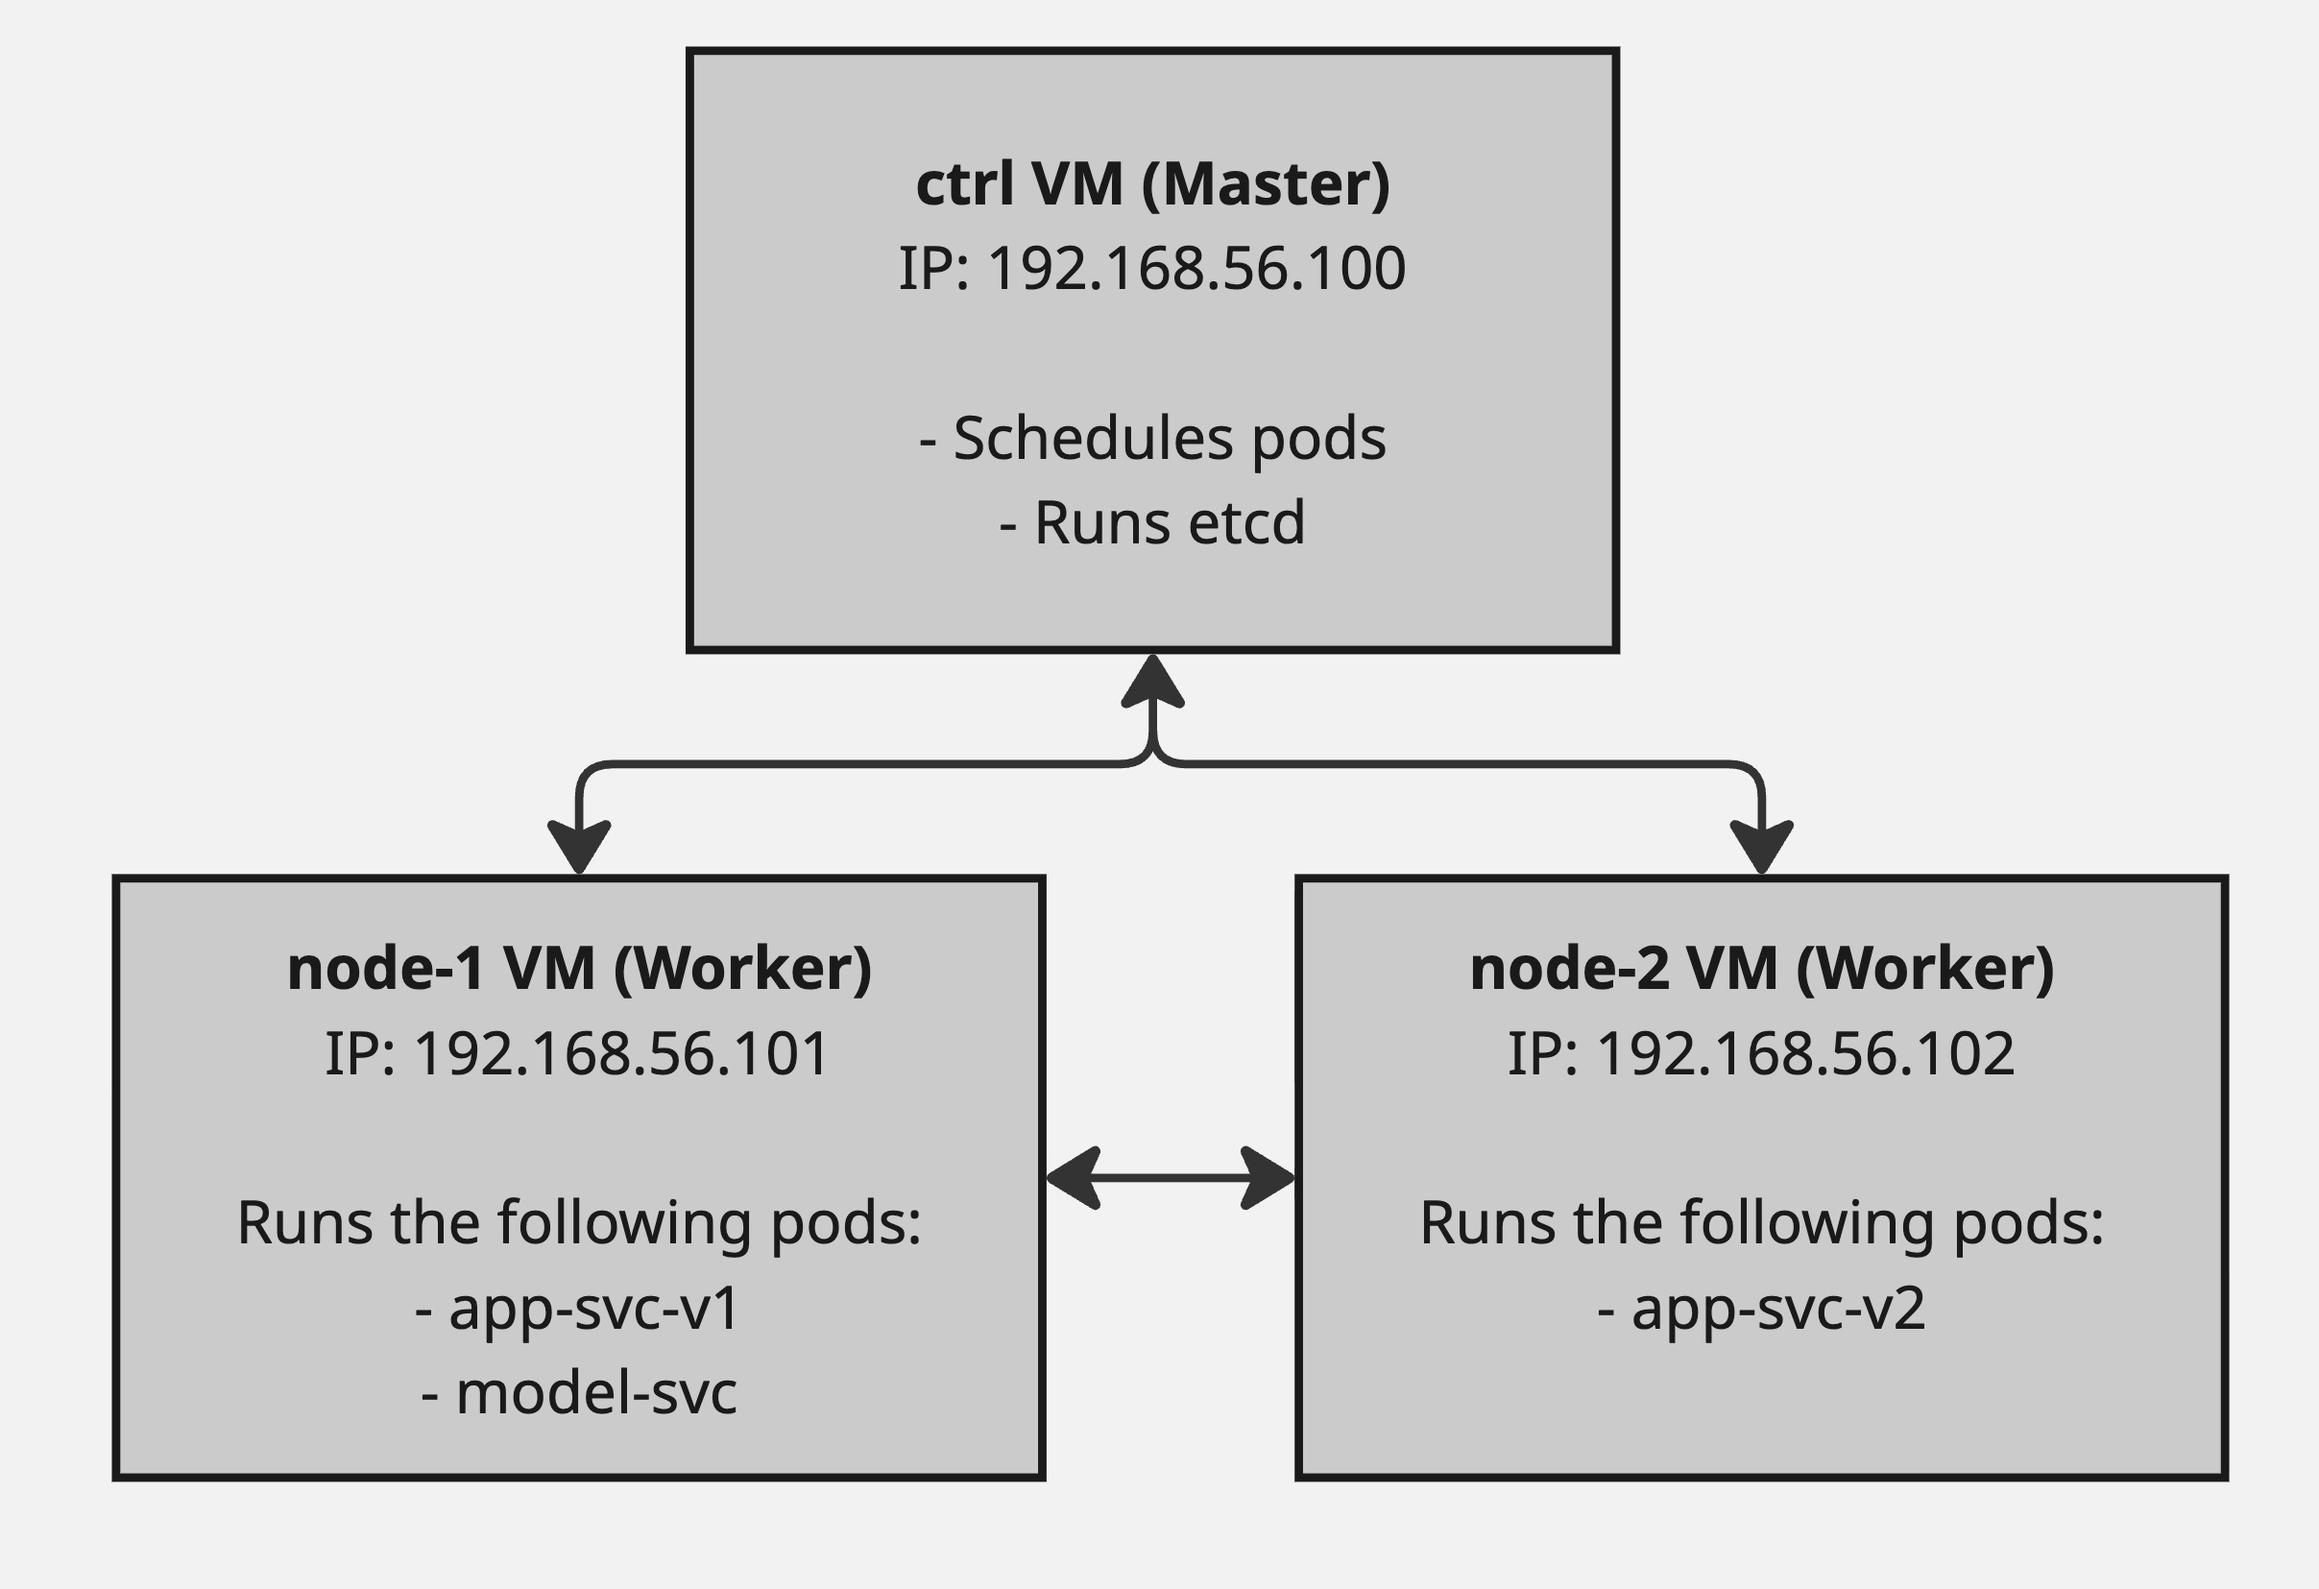
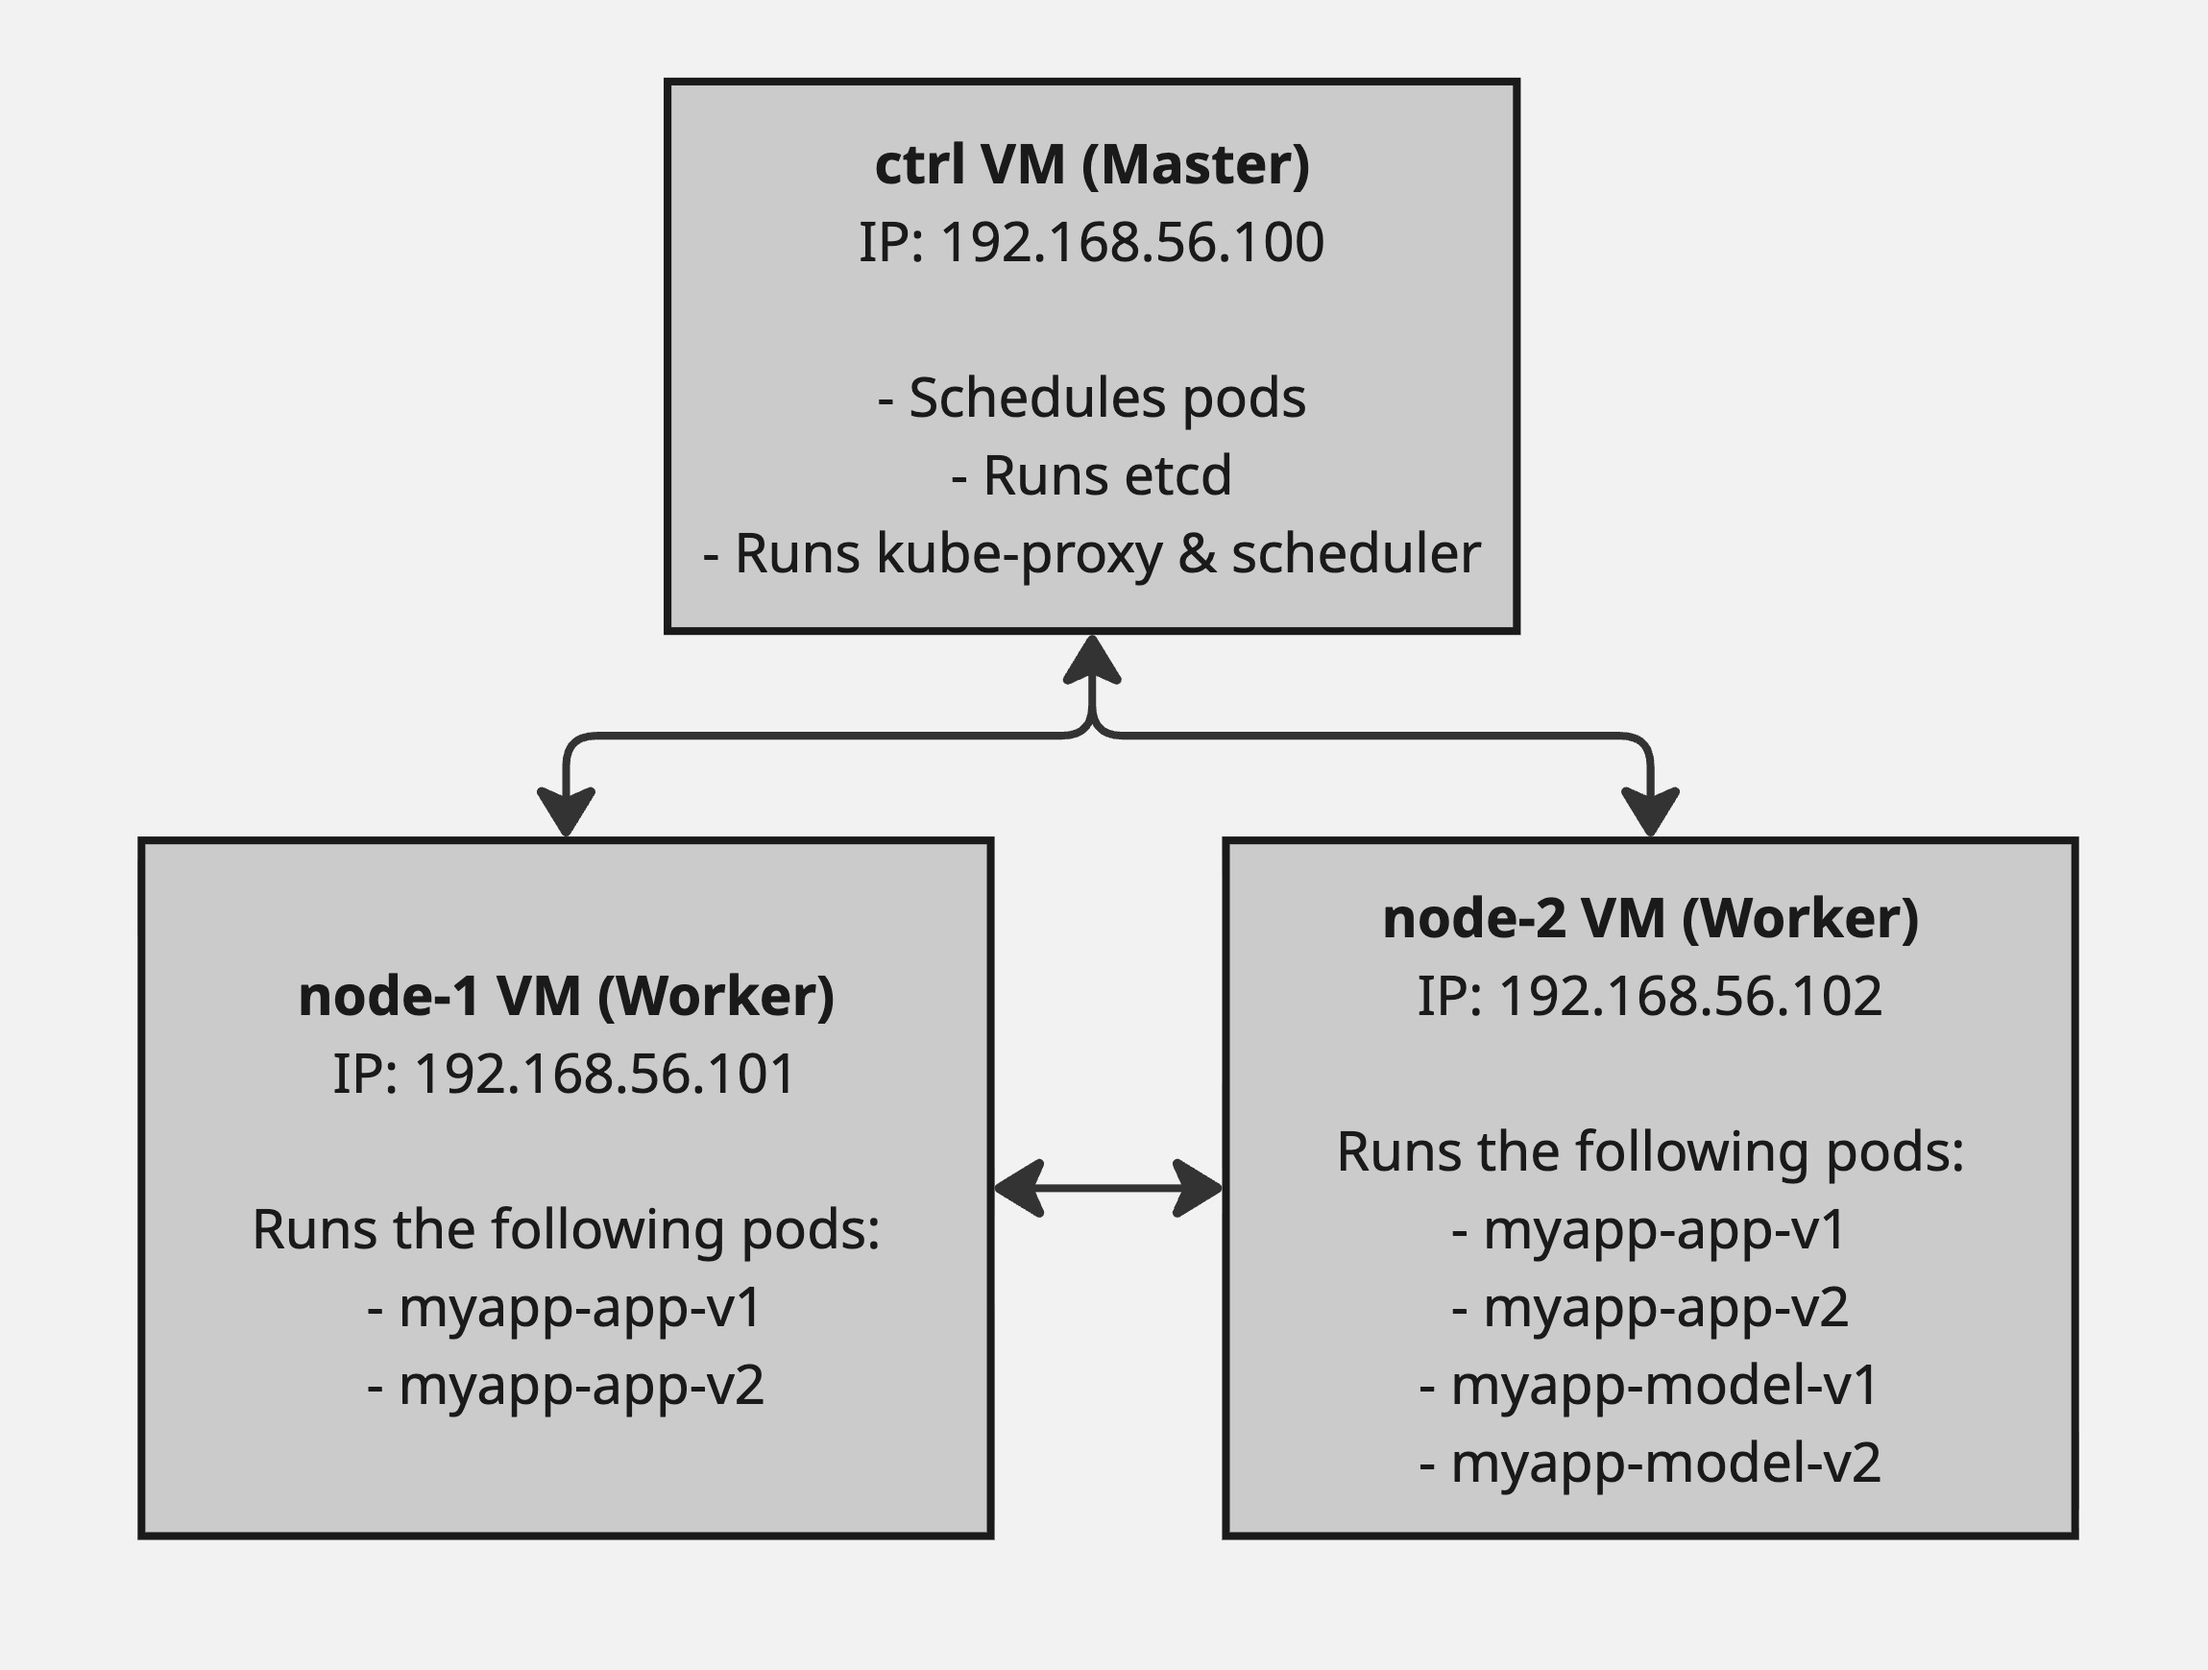
Additional changes

Changed region(s): [[0.0309, 0.0308, 0.9883, 0.9553], [0.1235, 0.5855, 0.4015, 0.6779]]

diff --git a/docs/deployment.md b/docs/deployment.md
@@ -12,12 +12,12 @@ In the latter stages of the assignments, the deployment focuses on observability
 
 The application is exposed through an Istio Ingress Gateway. Below are the entry points for the system:
 
-| Service                             | URL / Access Method                   | Description                                                                                                                                              |
-| :---------------------------------- | :------------------------------------ | :------------------------------------------------------------------------------------------------------------------------------------------------------- |
-| **Web Application (Stable)**  | `https://myapp.example.com`         | The main user interface for the SMS Checker.                                                                                                             |
-| **Web Application (Preview)** | `https://preview.myapp.example.com` | Direct access to the experimental version of the SMS Checker.                                                                                            |
-| **Grafana Dashboard**         | `https://localhost:3000`            | Visualisation of app metrics and experiment data. |
-| **Prometheus**                | `https://localhost:9090`            | Metric collection and querying.                                                                                                                          |
+| Service                             | URL / Access Method                   | Description                                                   |
+| :---------------------------------- | :------------------------------------ | :------------------------------------------------------------ |
+| **Web Application (Stable)**  | `https://myapp.example.com`         | The main user interface for the SMS Checker.                  |
+| **Web Application (Preview)** | `https://preview.myapp.example.com` | Direct access to the experimental version of the SMS Checker. |
+| **Grafana Dashboard**         | `https://localhost:3000`            | Visualisation of app metrics and experiment data.             |
+| **Prometheus**                | `https://localhost:9090`            | Metric collection and querying.                               |
 
 > **Note:** Accessing `myapp.example.com` requires these entries to be present in the `/etc/hosts` file on your local machine, mapping them to the LoadBalancer IP of the cluster (e.g., `192.168.56.100`). For local testing, the main app service can simply be accessed at `https://localhost:8080`.
 
@@ -32,13 +32,13 @@ The system is composed of two primary microservices, communicating internally:
 1. **App Service (`myapp-app-svc`):**
 
    * **Function:** Serves the frontend and acts as the API gateway.
-   * **Replicas:** 2 replicas for versioning, randomly determined by an Istio VirtualService with a default 90-10% split.
+   * **Replicas:** 2 replicas per version for high availability.
    * **Connectivity:** Communicates with the Model Service via its internal Kubernetes DNS name (`myapp-model-service`) on port 8081.
    * **Storage:** Mounts the shared volume (`/mnt/storage`) for shared data or configuration.
 2. **Model Service (`myapp-model-service`):**
 
    * **Function:** Houses the ML model logic.
-   * **Replicas:** 2 replicas for versioning.
+   * **Replicas:** 1 replicas per version.
    * **Exposure:** Accessed internally via a ClusterIP Service on target port 8081.
 
 ### **Observability Stack**
@@ -69,7 +69,7 @@ To monitor our application internally, we implement a monitoring stack with Prom
 
 ![Figure 2. Typical data flow](images/monitoring_stack.jpg "Figure 2. Typical data flow")
 
-Lastly, the figure below illustrates the physical deployment of our application, showing the Vagrant VMs that host the Kubernetes cluster, including the control plane and worker nodes, and how the pods and services are distributed across them. Since all VMs share the same private subnet, they can easily communicate between each other.
+Lastly, the figure below illustrates the physical deployment of our application, showing the Vagrant VMs that host the Kubernetes cluster, including the control plane and worker nodes, and how the pods and services may be distributed across them. Note that the distribution of services between the two workers may change, and Grafana, Prometheus, MetalLB, Istio, and Nginx pods have been omitted for brevity. Since all VMs share the same private subnet, they can easily communicate between each other.
 
 ![Figure 3. Physical structure of the VMs](images/vm_structure.jpg "Figure 3. Physical structure of the VMs")
 
